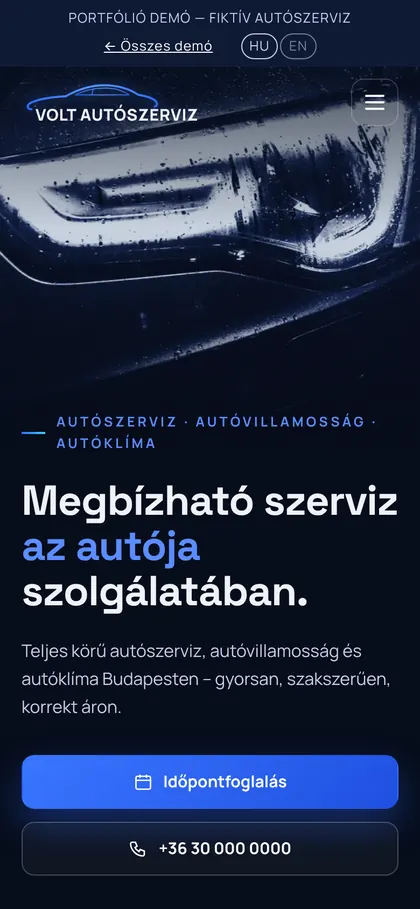
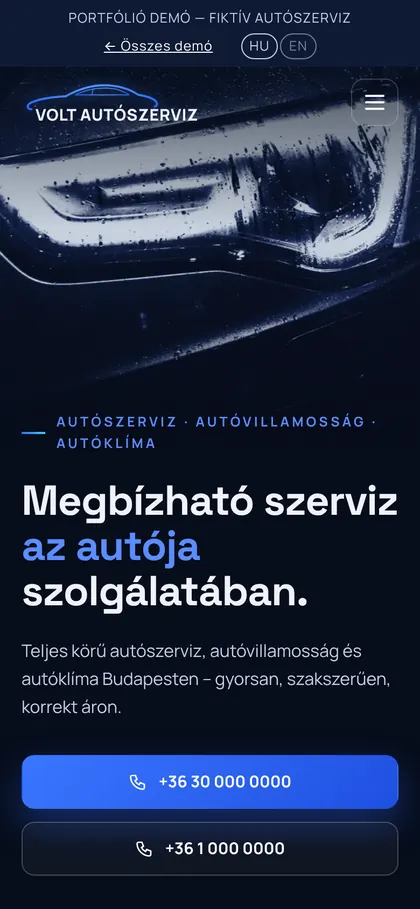
Car service demo: call instead of an online booking form
The workshop arranges appointments by phone, so the booking form is replaced by a
"call us" card with both numbers (mobile + landline) and opening hours; the header
and hero buttons call directly. Portfolio texts updated accordingly.

Claude-Session: https://claude.ai/code/session_01PW6wdywBd8st8c1yxNUGe2

Changed region(s): [[0.3095, 0.8317, 0.7119, 0.8933], [0.3095, 0.9241, 0.7119, 0.9549]]

diff --git a/public/demos/pada-trade/index.html b/public/demos/pada-trade/index.html
@@ -20,11 +20,11 @@
         <nav class="nav" aria-label="Fő navigáció">
           <a href="#szolgaltatasok">Szolgáltatások</a><a href="#rolunk">Rólunk</a><a href="#velemenyek">Vélemények</a><a href="#kapcsolat">Kapcsolat</a>
         </nav>
-        <a class="btn btn-primary top-cta" href="#idopont"><svg viewBox="0 0 24 24" fill="none" stroke="currentColor" stroke-width="1.8" aria-hidden="true"><rect x="3" y="5" width="18" height="16" rx="2"/><path d="M8 3v4M16 3v4M3 10h18"/></svg>Időpontfoglalás</a>
+        <a class="btn btn-primary top-cta" href="tel:+36309616336"><svg viewBox="0 0 24 24" fill="none" stroke="currentColor" stroke-width="1.8" aria-hidden="true"><path d="M5 4h4l2 5-2.5 1.5a11 11 0 0 0 5 5L15 13l5 2v4a2 2 0 0 1-2 2A16 16 0 0 1 3 6a2 2 0 0 1 2-2z"/></svg>+36 30 961 6336</a>
         <button type="button" class="menu-toggle" aria-controls="mobile-nav" aria-expanded="false" aria-label="Menü megnyitása"><span></span><span></span><span></span></button>
       </div>
       <nav class="mobile-nav" id="mobile-nav" hidden aria-label="Mobil navigáció">
-        <a href="#szolgaltatasok">Szolgáltatások</a><a href="#rolunk">Rólunk</a><a href="#idopont">Időpontfoglalás</a><a href="#velemenyek">Vélemények</a><a href="#kapcsolat">Kapcsolat</a>
+        <a href="#szolgaltatasok">Szolgáltatások</a><a href="#rolunk">Rólunk</a><a href="#idopont">Időpont egyeztetése</a><a href="#velemenyek">Vélemények</a><a href="#kapcsolat">Kapcsolat</a>
       </nav>
     </header>
 
@@ -36,8 +36,8 @@
           <h1 id="hero-title">Megbízható szerviz <span>az autója</span> szolgálatában.</h1>
           <p class="lead">Teljes körű autószerviz, autóvillamosság és autóklíma Budapest XVIII. kerületében – gyorsan, szakszerűen, korrekt áron.</p>
           <div class="hero-actions">
-            <a class="btn btn-primary" href="#idopont"><svg viewBox="0 0 24 24" fill="none" stroke="currentColor" stroke-width="1.8" aria-hidden="true"><rect x="3" y="5" width="18" height="16" rx="2"/><path d="M8 3v4M16 3v4M3 10h18"/></svg>Időpontfoglalás</a>
-            <a class="btn btn-ghost" href="tel:+36309616336"><svg viewBox="0 0 24 24" fill="none" stroke="currentColor" stroke-width="1.8" aria-hidden="true"><path d="M5 4h4l2 5-2.5 1.5a11 11 0 0 0 5 5L15 13l5 2v4a2 2 0 0 1-2 2A16 16 0 0 1 3 6a2 2 0 0 1 2-2z"/></svg>+36 30 961 6336</a>
+            <a class="btn btn-primary" href="tel:+36309616336"><svg viewBox="0 0 24 24" fill="none" stroke="currentColor" stroke-width="1.8" aria-hidden="true"><path d="M5 4h4l2 5-2.5 1.5a11 11 0 0 0 5 5L15 13l5 2v4a2 2 0 0 1-2 2A16 16 0 0 1 3 6a2 2 0 0 1 2-2z"/></svg>+36 30 961 6336</a>
+            <a class="btn btn-ghost" href="tel:+3612946505"><svg viewBox="0 0 24 24" fill="none" stroke="currentColor" stroke-width="1.8" aria-hidden="true"><path d="M5 4h4l2 5-2.5 1.5a11 11 0 0 0 5 5L15 13l5 2v4a2 2 0 0 1-2 2A16 16 0 0 1 3 6a2 2 0 0 1 2-2z"/></svg>06-1-294-65-05</a>
           </div>
           <ul class="hero-facts">
             <li><svg viewBox="0 0 24 24" fill="none" stroke="currentColor" stroke-width="1.8" aria-hidden="true"><path d="M12 21s7-6.2 7-11.5A7 7 0 0 0 5 9.5C5 14.8 12 21 12 21z"/><circle cx="12" cy="9.5" r="2.5"/></svg>1188 Budapest, Kölcsey u. 40/a.</li>
@@ -129,30 +129,22 @@
       <section class="section" id="idopont" aria-labelledby="booking-title" style="padding-top:0">
         <div class="wrap booking">
           <div class="reveal">
-            <span class="eyebrow">Időpontfoglalás</span>
-            <h2 id="booking-title" style="margin:14px 0 0;font-size:clamp(30px,4vw,48px)">Kérjen időpontot pár kattintással.</h2>
+            <span class="eyebrow">Időpont egyeztetése</span>
+            <h2 id="booking-title" style="margin:14px 0 0;font-size:clamp(30px,4vw,48px)">Egy hívás, és megbeszéljük.</h2>
             <ol class="steps">
-              <li><b>Időpontkérés</b><span>Adja meg az autót és a problémát – visszahívjuk egyeztetni.</span></li>
+              <li><b>Telefonos egyeztetés</b><span>Mondja el, milyen autóról és milyen problémáról van szó – megbeszéljük az időpontot.</span></li>
               <li><b>Állapotfelmérés</b><span>Diagnosztikával megkeressük a hiba okát.</span></li>
               <li><b>Ár egyeztetése</b><span>A javítás előtt elmondjuk, mi kell és mennyibe kerül.</span></li>
               <li><b>Javítás és átadás</b><span>Elvégezzük a munkát, és elmondjuk, mire figyeljen.</span></li>
             </ol>
           </div>
-          <form class="form-card reveal" id="booking-form" style="--d:.1s">
-            <h3>Időpontkérés</h3>
-            <p>Munkaidőben hamarosan visszahívjuk az időpont egyeztetéséhez.</p>
-            <div class="form-grid">
-              <div class="field"><label for="bk-name">Név</label><input id="bk-name" name="name" autocomplete="name" required></div>
-              <div class="field"><label for="bk-phone">Telefonszám</label><input id="bk-phone" name="phone" type="tel" autocomplete="tel" required></div>
-              <div class="field"><label for="bk-car">Autó (márka, típus)</label><input id="bk-car" name="car" placeholder="pl. Opel Astra 2015"></div>
-              <div class="field"><label for="bk-service">Szolgáltatás</label>
-                <select id="bk-service" name="service"><option>Autóvillamosság</option><option>Autószerviz / javítás</option><option>Diagnosztika</option><option>Autóklíma</option><option>Vizsgaügyintézés</option><option>Egyéb</option></select></div>
-              <div class="field full"><label for="booking-date">Kívánt nap</label><input id="booking-date" name="date" type="date"></div>
-              <div class="field full"><label for="bk-msg">A probléma röviden</label><textarea id="bk-msg" name="message" placeholder="pl. nem indul reggel, ég a motorhiba-lámpa…"></textarea></div>
-            </div>
-            <button class="btn btn-primary" type="submit">Időpontot kérek <svg viewBox="0 0 24 24" fill="none" stroke="currentColor" stroke-width="2" aria-hidden="true"><path d="M4 12h15M13 6l6 6-6 6"/></svg></button>
-            <p class="form-status" id="form-status" role="status"></p>
-          </form>
+          <div class="form-card call-card reveal" style="--d:.1s">
+            <h3>Hívjon minket</h3>
+            <p>Időpontot telefonon egyeztetünk – hívjon nyitvatartási időben, és megbeszéljük, mikor tudja hozni az autót.</p>
+            <a class="call-line" href="tel:+36309616336"><small>Mobil</small><b>+36 30 961 6336</b><svg viewBox="0 0 24 24" fill="none" stroke="currentColor" stroke-width="1.8" aria-hidden="true"><path d="M5 4h4l2 5-2.5 1.5a11 11 0 0 0 5 5L15 13l5 2v4a2 2 0 0 1-2 2A16 16 0 0 1 3 6a2 2 0 0 1 2-2z"/></svg></a>
+            <a class="call-line" href="tel:+3612946505"><small>Vezetékes</small><b>06-1-294-65-05</b><svg viewBox="0 0 24 24" fill="none" stroke="currentColor" stroke-width="1.8" aria-hidden="true"><path d="M5 4h4l2 5-2.5 1.5a11 11 0 0 0 5 5L15 13l5 2v4a2 2 0 0 1-2 2A16 16 0 0 1 3 6a2 2 0 0 1 2-2z"/></svg></a>
+            <table class="hours"><tr><td>Hétfő – Péntek</td><td>08:00 – 17:00</td></tr><tr><td>Szombat – Vasárnap</td><td>Zárva</td></tr></table>
+          </div>
         </div>
       </section>
 

diff --git a/public/demos/autoszerviz/index.html b/public/demos/autoszerviz/index.html
@@ -20,11 +20,11 @@
         <nav class="nav" aria-label="Fő navigáció">
           <a href="#szolgaltatasok">Szolgáltatások</a><a href="#rolunk">Rólunk</a><a href="#velemenyek">Vélemények</a><a href="#kapcsolat">Kapcsolat</a>
         </nav>
-        <a class="btn btn-primary top-cta" href="#idopont"><svg viewBox="0 0 24 24" fill="none" stroke="currentColor" stroke-width="1.8" aria-hidden="true"><rect x="3" y="5" width="18" height="16" rx="2"/><path d="M8 3v4M16 3v4M3 10h18"/></svg>Időpontfoglalás</a>
+        <a class="btn btn-primary top-cta" href="tel:+36300000000"><svg viewBox="0 0 24 24" fill="none" stroke="currentColor" stroke-width="1.8" aria-hidden="true"><path d="M5 4h4l2 5-2.5 1.5a11 11 0 0 0 5 5L15 13l5 2v4a2 2 0 0 1-2 2A16 16 0 0 1 3 6a2 2 0 0 1 2-2z"/></svg>+36 30 000 0000</a>
         <button type="button" class="menu-toggle" aria-controls="mobile-nav" aria-expanded="false" aria-label="Menü megnyitása"><span></span><span></span><span></span></button>
       </div>
       <nav class="mobile-nav" id="mobile-nav" hidden aria-label="Mobil navigáció">
-        <a href="#szolgaltatasok">Szolgáltatások</a><a href="#rolunk">Rólunk</a><a href="#idopont">Időpontfoglalás</a><a href="#velemenyek">Vélemények</a><a href="#kapcsolat">Kapcsolat</a>
+        <a href="#szolgaltatasok">Szolgáltatások</a><a href="#rolunk">Rólunk</a><a href="#idopont">Időpont egyeztetése</a><a href="#velemenyek">Vélemények</a><a href="#kapcsolat">Kapcsolat</a>
       </nav>
     </header>
 
@@ -36,8 +36,8 @@
           <h1 id="hero-title">Megbízható szerviz <span>az autója</span> szolgálatában.</h1>
           <p class="lead">Teljes körű autószerviz, autóvillamosság és autóklíma Budapesten – gyorsan, szakszerűen, korrekt áron.</p>
           <div class="hero-actions">
-            <a class="btn btn-primary" href="#idopont"><svg viewBox="0 0 24 24" fill="none" stroke="currentColor" stroke-width="1.8" aria-hidden="true"><rect x="3" y="5" width="18" height="16" rx="2"/><path d="M8 3v4M16 3v4M3 10h18"/></svg>Időpontfoglalás</a>
-            <a class="btn btn-ghost" href="tel:+36300000000"><svg viewBox="0 0 24 24" fill="none" stroke="currentColor" stroke-width="1.8" aria-hidden="true"><path d="M5 4h4l2 5-2.5 1.5a11 11 0 0 0 5 5L15 13l5 2v4a2 2 0 0 1-2 2A16 16 0 0 1 3 6a2 2 0 0 1 2-2z"/></svg>+36 30 000 0000</a>
+            <a class="btn btn-primary" href="tel:+36300000000"><svg viewBox="0 0 24 24" fill="none" stroke="currentColor" stroke-width="1.8" aria-hidden="true"><path d="M5 4h4l2 5-2.5 1.5a11 11 0 0 0 5 5L15 13l5 2v4a2 2 0 0 1-2 2A16 16 0 0 1 3 6a2 2 0 0 1 2-2z"/></svg>+36 30 000 0000</a>
+            <a class="btn btn-ghost" href="tel:+3610000000"><svg viewBox="0 0 24 24" fill="none" stroke="currentColor" stroke-width="1.8" aria-hidden="true"><path d="M5 4h4l2 5-2.5 1.5a11 11 0 0 0 5 5L15 13l5 2v4a2 2 0 0 1-2 2A16 16 0 0 1 3 6a2 2 0 0 1 2-2z"/></svg>+36 1 000 0000</a>
           </div>
           <ul class="hero-facts">
             <li><svg viewBox="0 0 24 24" fill="none" stroke="currentColor" stroke-width="1.8" aria-hidden="true"><path d="M12 21s7-6.2 7-11.5A7 7 0 0 0 5 9.5C5 14.8 12 21 12 21z"/><circle cx="12" cy="9.5" r="2.5"/></svg>1234 Budapest, Minta utca 12.</li>
@@ -129,30 +129,22 @@
       <section class="section" id="idopont" aria-labelledby="booking-title" style="padding-top:0">
         <div class="wrap booking">
           <div class="reveal">
-            <span class="eyebrow">Időpontfoglalás</span>
-            <h2 id="booking-title" style="margin:14px 0 0;font-size:clamp(30px,4vw,48px)">Kérjen időpontot pár kattintással.</h2>
+            <span class="eyebrow">Időpont egyeztetése</span>
+            <h2 id="booking-title" style="margin:14px 0 0;font-size:clamp(30px,4vw,48px)">Egy hívás, és megbeszéljük.</h2>
             <ol class="steps">
-              <li><b>Időpontkérés</b><span>Adja meg az autót és a problémát – visszahívjuk egyeztetni.</span></li>
+              <li><b>Telefonos egyeztetés</b><span>Mondja el, milyen autóról és milyen problémáról van szó – megbeszéljük az időpontot.</span></li>
               <li><b>Állapotfelmérés</b><span>Diagnosztikával megkeressük a hiba okát.</span></li>
               <li><b>Ár egyeztetése</b><span>A javítás előtt elmondjuk, mi kell és mennyibe kerül.</span></li>
               <li><b>Javítás és átadás</b><span>Elvégezzük a munkát, és elmondjuk, mire figyeljen.</span></li>
             </ol>
           </div>
-          <form class="form-card reveal" id="booking-form" style="--d:.1s">
-            <h3>Időpontkérés</h3>
-            <p>Munkaidőben hamarosan visszahívjuk az időpont egyeztetéséhez.</p>
-            <div class="form-grid">
-              <div class="field"><label for="bk-name">Név</label><input id="bk-name" name="name" autocomplete="name" required></div>
-              <div class="field"><label for="bk-phone">Telefonszám</label><input id="bk-phone" name="phone" type="tel" autocomplete="tel" required></div>
-              <div class="field"><label for="bk-car">Autó (márka, típus)</label><input id="bk-car" name="car" placeholder="pl. Opel Astra 2015"></div>
-              <div class="field"><label for="bk-service">Szolgáltatás</label>
-                <select id="bk-service" name="service"><option>Autóvillamosság</option><option>Autószerviz / javítás</option><option>Diagnosztika</option><option>Autóklíma</option><option>Vizsgaügyintézés</option><option>Egyéb</option></select></div>
-              <div class="field full"><label for="booking-date">Kívánt nap</label><input id="booking-date" name="date" type="date"></div>
-              <div class="field full"><label for="bk-msg">A probléma röviden</label><textarea id="bk-msg" name="message" placeholder="pl. nem indul reggel, ég a motorhiba-lámpa…"></textarea></div>
-            </div>
-            <button class="btn btn-primary" type="submit">Időpontot kérek <svg viewBox="0 0 24 24" fill="none" stroke="currentColor" stroke-width="2" aria-hidden="true"><path d="M4 12h15M13 6l6 6-6 6"/></svg></button>
-            <p class="form-status" id="form-status" role="status"></p>
-          </form>
+          <div class="form-card call-card reveal" style="--d:.1s">
+            <h3>Hívjon minket</h3>
+            <p>Időpontot telefonon egyeztetünk – hívjon nyitvatartási időben, és megbeszéljük, mikor tudja hozni az autót.</p>
+            <a class="call-line" href="tel:+36300000000"><small>Mobil</small><b>+36 30 000 0000</b><svg viewBox="0 0 24 24" fill="none" stroke="currentColor" stroke-width="1.8" aria-hidden="true"><path d="M5 4h4l2 5-2.5 1.5a11 11 0 0 0 5 5L15 13l5 2v4a2 2 0 0 1-2 2A16 16 0 0 1 3 6a2 2 0 0 1 2-2z"/></svg></a>
+            <a class="call-line" href="tel:+3610000000"><small>Vezetékes</small><b>+36 1 000 0000</b><svg viewBox="0 0 24 24" fill="none" stroke="currentColor" stroke-width="1.8" aria-hidden="true"><path d="M5 4h4l2 5-2.5 1.5a11 11 0 0 0 5 5L15 13l5 2v4a2 2 0 0 1-2 2A16 16 0 0 1 3 6a2 2 0 0 1 2-2z"/></svg></a>
+            <table class="hours"><tr><td>Hétfő – Péntek</td><td>08:00 – 17:00</td></tr><tr><td>Szombat – Vasárnap</td><td>Zárva</td></tr></table>
+          </div>
         </div>
       </section>
 

diff --git a/public/demos/en.js b/public/demos/en.js
@@ -25,11 +25,11 @@ window.DEMO_EN = {
     'ÚJ / PREMIUM & CINEMATIC': 'NEW / PREMIUM & CINEMATIC',
     'PREMIUM & CINEMATIC': 'PREMIUM & CINEMATIC',
     'ÚJ / DARK & TRUSTWORTHY': 'NEW / DARK & TRUSTWORTHY',
-    'Autószerviz és autóvillamosság sötét, kék fényekkel: a nyitóképen a fényszórók mélységben mozdulnak görgetésre, a szolgáltatások finoman úsznak be. Szolgáltatáskártyák, online időpontkérés, vélemények, szolgáltatási terület és útvonaltervezés – visszafogott, gyors, mobilra tervezett.':
-      'A car service and auto electrics site in dark tones with blue lights: the headlights in the hero move in depth as you scroll, and the services glide in gently. Service cards, online appointment requests, reviews, service area and directions – restrained, fast and designed for mobile.',
+    'Autószerviz és autóvillamosság sötét, kék fényekkel: a nyitóképen a fényszórók mélységben mozdulnak görgetésre, a szolgáltatások finoman úsznak be. Szolgáltatáskártyák, egy kattintásos hívás, vélemények, szolgáltatási terület és útvonaltervezés – visszafogott, gyors, mobilra tervezett.':
+      'A car service and auto electrics site in dark tones with blue lights: the headlights in the hero move in depth as you scroll, and the services glide in gently. Service cards, one-tap calling, reviews, service area and directions – restrained, fast and designed for mobile.',
     'VOLT autószerviz weboldal nyitóképernyője': 'Home screen of the VOLT car service website',
     'Parallax': 'Parallax',
-    'Időpontkérés': 'Appointment requests',
+    'Egy kattintásos hívás': 'One-tap calling',
     'Prémium autószalon fekete–pezsgőarany arculattal és valódi fotókkal: görgetésre „felkapcsolnak a fények” a nyitóképen, a kollekcióban 3D térben repülünk át a lebegő paneleken, amelyek elhaladáskor aranyporrá esnek szét. Konfigurátor, finanszírozási kalkulátor és tesztvezetés-foglalás.':
       'A premium car showroom with a black and champagne-gold identity and real photos: scrolling “turns on the lights” in the hero, the collection flies you through floating panels in 3D space that dissolve into gold dust as you pass. Configurator, finance calculator and test-drive booking.',
     'Reszponzív': 'Responsive',

diff --git a/src/app/pages/home/home.ts b/src/app/pages/home/home.ts
@@ -95,7 +95,7 @@ export class Home implements OnInit {
     private readonly anchor = inject(ActivatedRoute, { optional: true })?.snapshot.fragment ?? null;
     readonly hasAnchor = !!this.anchor;
     readonly demoSites = [
-        { slug: 'autoszerviz', preview: 'volt', title: 'VOLT Autószerviz', kind: 'AUTÓSZERVIZ / DEMÓ', text: 'Autószerviz és autóvillamosság sötét, kék fényekkel: visszafogott görgetési mélység, szolgáltatáskártyák és online időpontkérés.', tags: ['Szolgáltatások', 'Időpontkérés', 'Útvonaltervezés'] },
+        { slug: 'autoszerviz', preview: 'volt', title: 'VOLT Autószerviz', kind: 'AUTÓSZERVIZ / DEMÓ', text: 'Autószerviz és autóvillamosság sötét, kék fényekkel: visszafogott görgetési mélység, szolgáltatáskártyák és egy kattintásos hívás.', tags: ['Szolgáltatások', 'Egy kattintásos hívás', 'Útvonaltervezés'] },
         { slug: 'nobile-autoszalon', preview: 'nobile', title: 'NOBILE Autószalon', kind: 'PRÉMIUM AUTÓSZALON / DEMÓ', text: 'Görgetéses 3D kollekció aranyporrá bomló panelekkel, konfigurátor, finanszírozási kalkulátor és tesztvezetés-foglalás.', tags: ['3D kollekció', 'Konfigurátor', 'Tesztvezetés-foglalás'] },
         { slug: 'vagat-barber', preview: 'vagat', title: 'VÁGAT Barber Studio', kind: 'BARBER SHOP / DEMÓ', text: 'Fiktív barber shop weboldal prémium megjelenéssel.', tags: ['Szolgáltatások', 'Árlista', 'Időpontfoglalás'] },
         { slug: 'axis-detailing', preview: 'axis', title: 'AXIS Auto Detailing', kind: 'AUTÓKOZMETIKA / DEMÓ', text: 'Prémium autókozmetikai oldal interaktív csomagokkal.', tags: ['Csomagok', 'Átalakulás', 'Ajánlatkérés'] },

diff --git a/public/demos/autoszerviz/style.css b/public/demos/autoszerviz/style.css
@@ -141,6 +141,12 @@ section { position: relative; }
 .field input:focus, .field select:focus, .field textarea:focus { outline: none; border-color: var(--blue2); box-shadow: 0 0 0 3px rgba(47, 107, 255, .25); }
 .form-card .btn { width: 100%; margin-top: 18px; }
 .form-status { min-height: 22px; margin: 12px 0 0; color: var(--cyan); font-size: 14px; }
+.call-line { display: grid; grid-template-columns: 1fr auto; align-items: center; gap: 2px 14px; margin-bottom: 12px; padding: 16px 18px; border-radius: 14px; text-decoration: none; background: rgba(47, 107, 255, .1); border: 1px solid rgba(91, 140, 255, .35); transition: background .2s, border-color .2s, transform .2s; }
+.call-line:hover { background: rgba(47, 107, 255, .2); border-color: var(--blue2); transform: translateY(-2px); }
+.call-line small { grid-column: 1; color: var(--muted); font-size: 12px; letter-spacing: .12em; text-transform: uppercase; }
+.call-line b { grid-column: 1; font: 700 clamp(22px, 2.6vw, 28px)/1.15 'Space Grotesk', sans-serif; letter-spacing: -.01em; }
+.call-line svg { grid-column: 2; grid-row: 1 / 3; width: 46px; height: 46px; padding: 11px; border-radius: 50%; background: linear-gradient(135deg, #3a76ff, #1f4fe0); color: #fff; box-shadow: 0 10px 24px rgba(47, 107, 255, .45); }
+.call-card .hours { margin-top: 8px; }
 
 /* vélemények */
 .reviews { display: grid; grid-template-columns: repeat(3, 1fr); gap: 20px; }

diff --git a/public/demos/autoszerviz/en.js b/public/demos/autoszerviz/en.js
@@ -11,6 +11,13 @@ window.DEMO_EN = {
     'Fő navigáció': 'Main navigation', 'Mobil navigáció': 'Mobile navigation', 'Menü megnyitása': 'Open menu',
     'Szolgáltatások': 'Services', 'Rólunk': 'About us', 'Vélemények': 'Reviews', 'Kapcsolat': 'Contact',
     'Időpontfoglalás': 'Book an appointment',
+    'Időpont egyeztetése': 'Arrange an appointment',
+    'Egy hívás, és megbeszéljük.': 'One call and we’ll sort it out.',
+    'Telefonos egyeztetés': 'Phone call',
+    'Mondja el, milyen autóról és milyen problémáról van szó – megbeszéljük az időpontot.': 'Tell us about your car and the problem – we’ll agree on a time.',
+    'Hívjon minket': 'Call us',
+    'Időpontot telefonon egyeztetünk – hívjon nyitvatartási időben, és megbeszéljük, mikor tudja hozni az autót.': 'We arrange appointments by phone – call during opening hours and we’ll agree when you can bring the car in.',
+    'Mobil': 'Mobile', 'Vezetékes': 'Landline',
     'Autószerviz · Autóvillamosság': 'Car service · Auto electrics',
     'Autószerviz · Autóvillamosság · Autóklíma': 'Car service · Auto electrics · Air conditioning',
     'Megbízható szerviz': 'A reliable workshop', 'az autója': 'at your', 'szolgálatában.': 'car’s service.',

diff --git a/public/demos/index.html b/public/demos/index.html
@@ -149,7 +149,7 @@
                 </span>
               </h3>
               <p>
-                Autószerviz és autóvillamosság sötét, kék fényekkel: a nyitóképen a fényszórók mélységben mozdulnak görgetésre, a szolgáltatások finoman úsznak be. Szolgáltatáskártyák, online időpontkérés, vélemények, szolgáltatási terület és útvonaltervezés – visszafogott, gyors, mobilra tervezett.
+                Autószerviz és autóvillamosság sötét, kék fényekkel: a nyitóképen a fényszórók mélységben mozdulnak görgetésre, a szolgáltatások finoman úsznak be. Szolgáltatáskártyák, egy kattintásos hívás, vélemények, szolgáltatási terület és útvonaltervezés – visszafogott, gyors, mobilra tervezett.
               </p>
               <div class="tags">
                 <span>
@@ -162,7 +162,7 @@
                   Parallax
                 </span>
                 <span>
-                  Időpontkérés
+                  Egy kattintásos hívás
                 </span>
               </div>
               <a class="project-link" href="autoszerviz/index.html" target="_blank" rel="noopener">

diff --git a/src/app/i18n/en.ts b/src/app/i18n/en.ts
@@ -120,8 +120,8 @@ export const EN: Record<string, string> = {
   "AUTÓKOZMETIKA / DEMÓ": "CAR DETAILING / DEMO",
   "AUTÓSZERVIZ / DEMÓ": "CAR SERVICE / DEMO",
   "VOLT Autószerviz": "VOLT Car Service",
-  "Autószerviz és autóvillamosság sötét, kék fényekkel: visszafogott görgetési mélység, szolgáltatáskártyák és online időpontkérés.": "A car service and auto electrics site in dark tones with blue lights: subtle scroll depth, service cards and online appointment requests.",
-  "Időpontkérés": "Appointment requests",
+  "Autószerviz és autóvillamosság sötét, kék fényekkel: visszafogott görgetési mélység, szolgáltatáskártyák és egy kattintásos hívás.": "A car service and auto electrics site in dark tones with blue lights: subtle scroll depth, service cards and one-tap calling.",
+  "Egy kattintásos hívás": "One-tap calling",
   "Útvonaltervezés": "Directions",
   "PRÉMIUM AUTÓSZALON / DEMÓ": "PREMIUM CAR DEALERSHIP / DEMO",
   "NOBILE Autószalon": "NOBILE Car Showroom",
